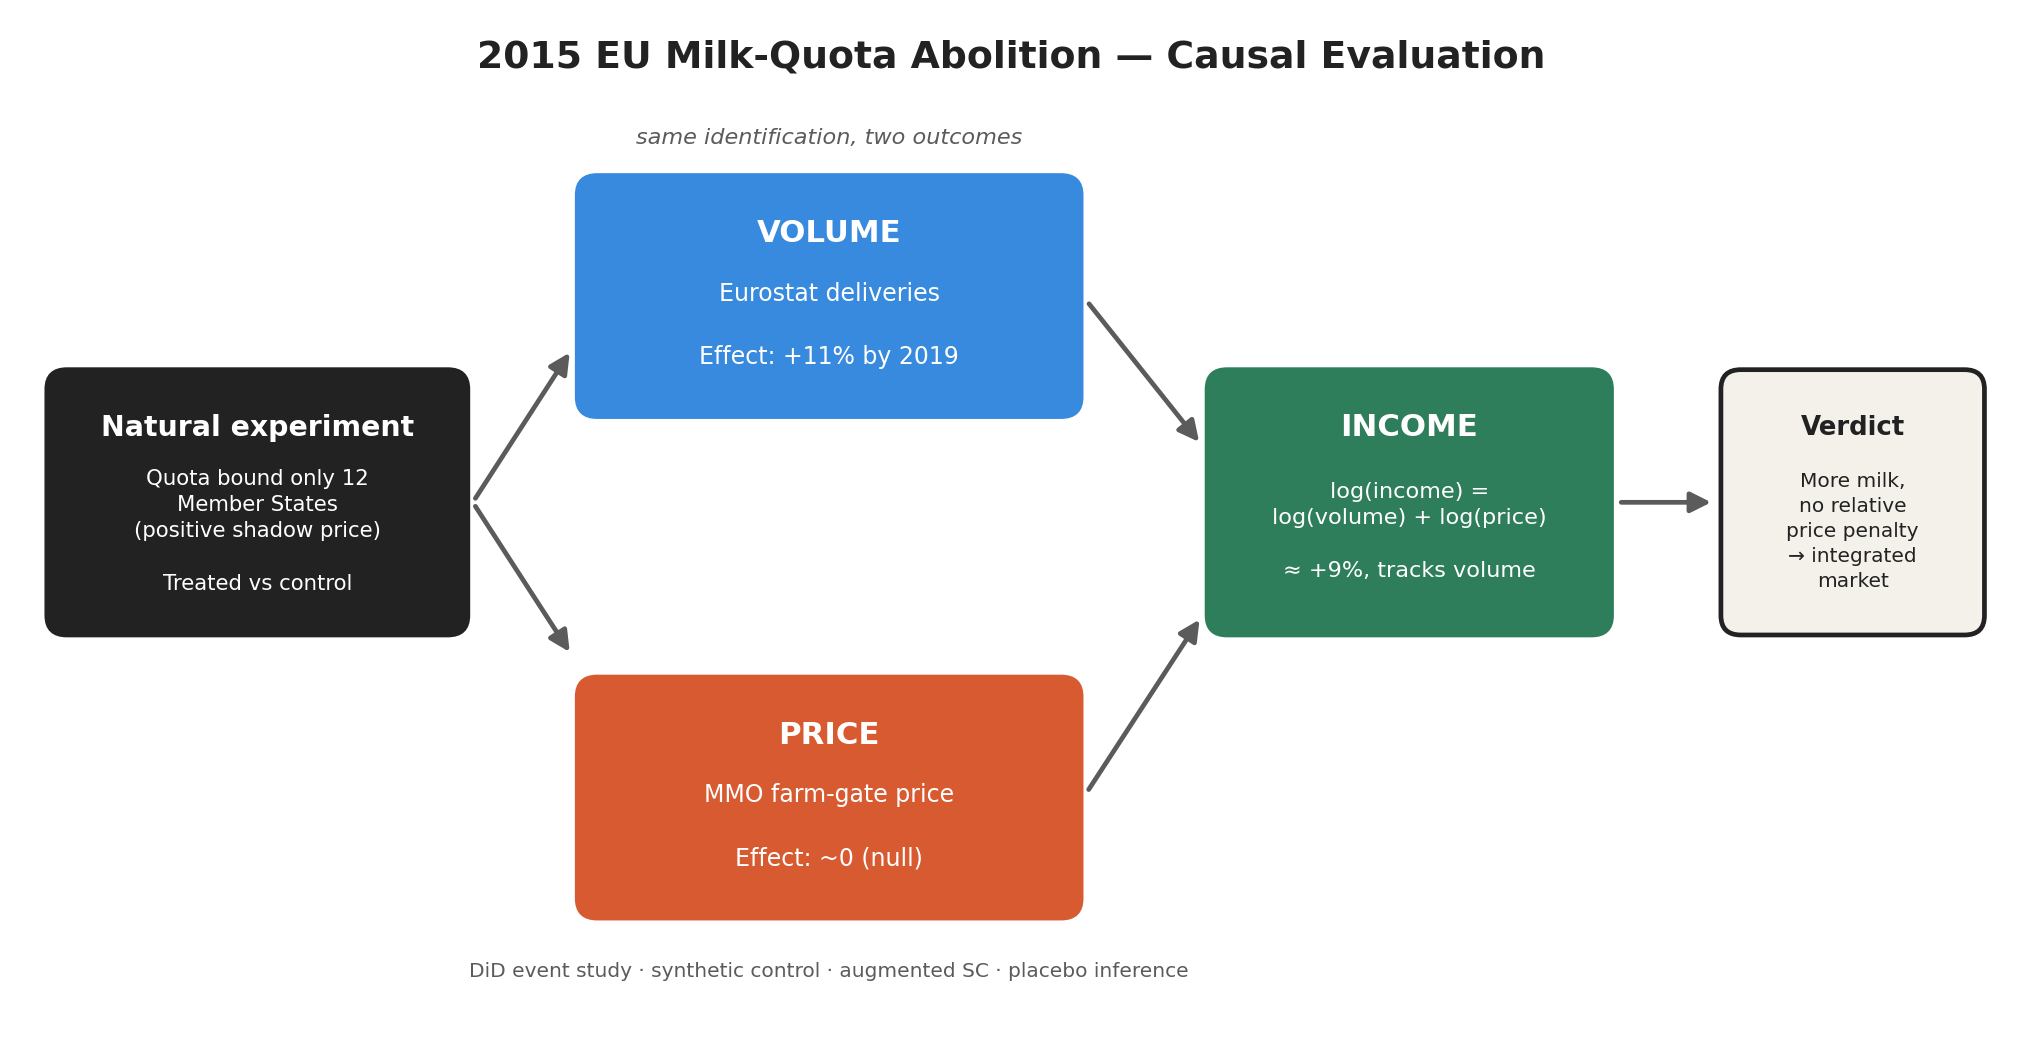
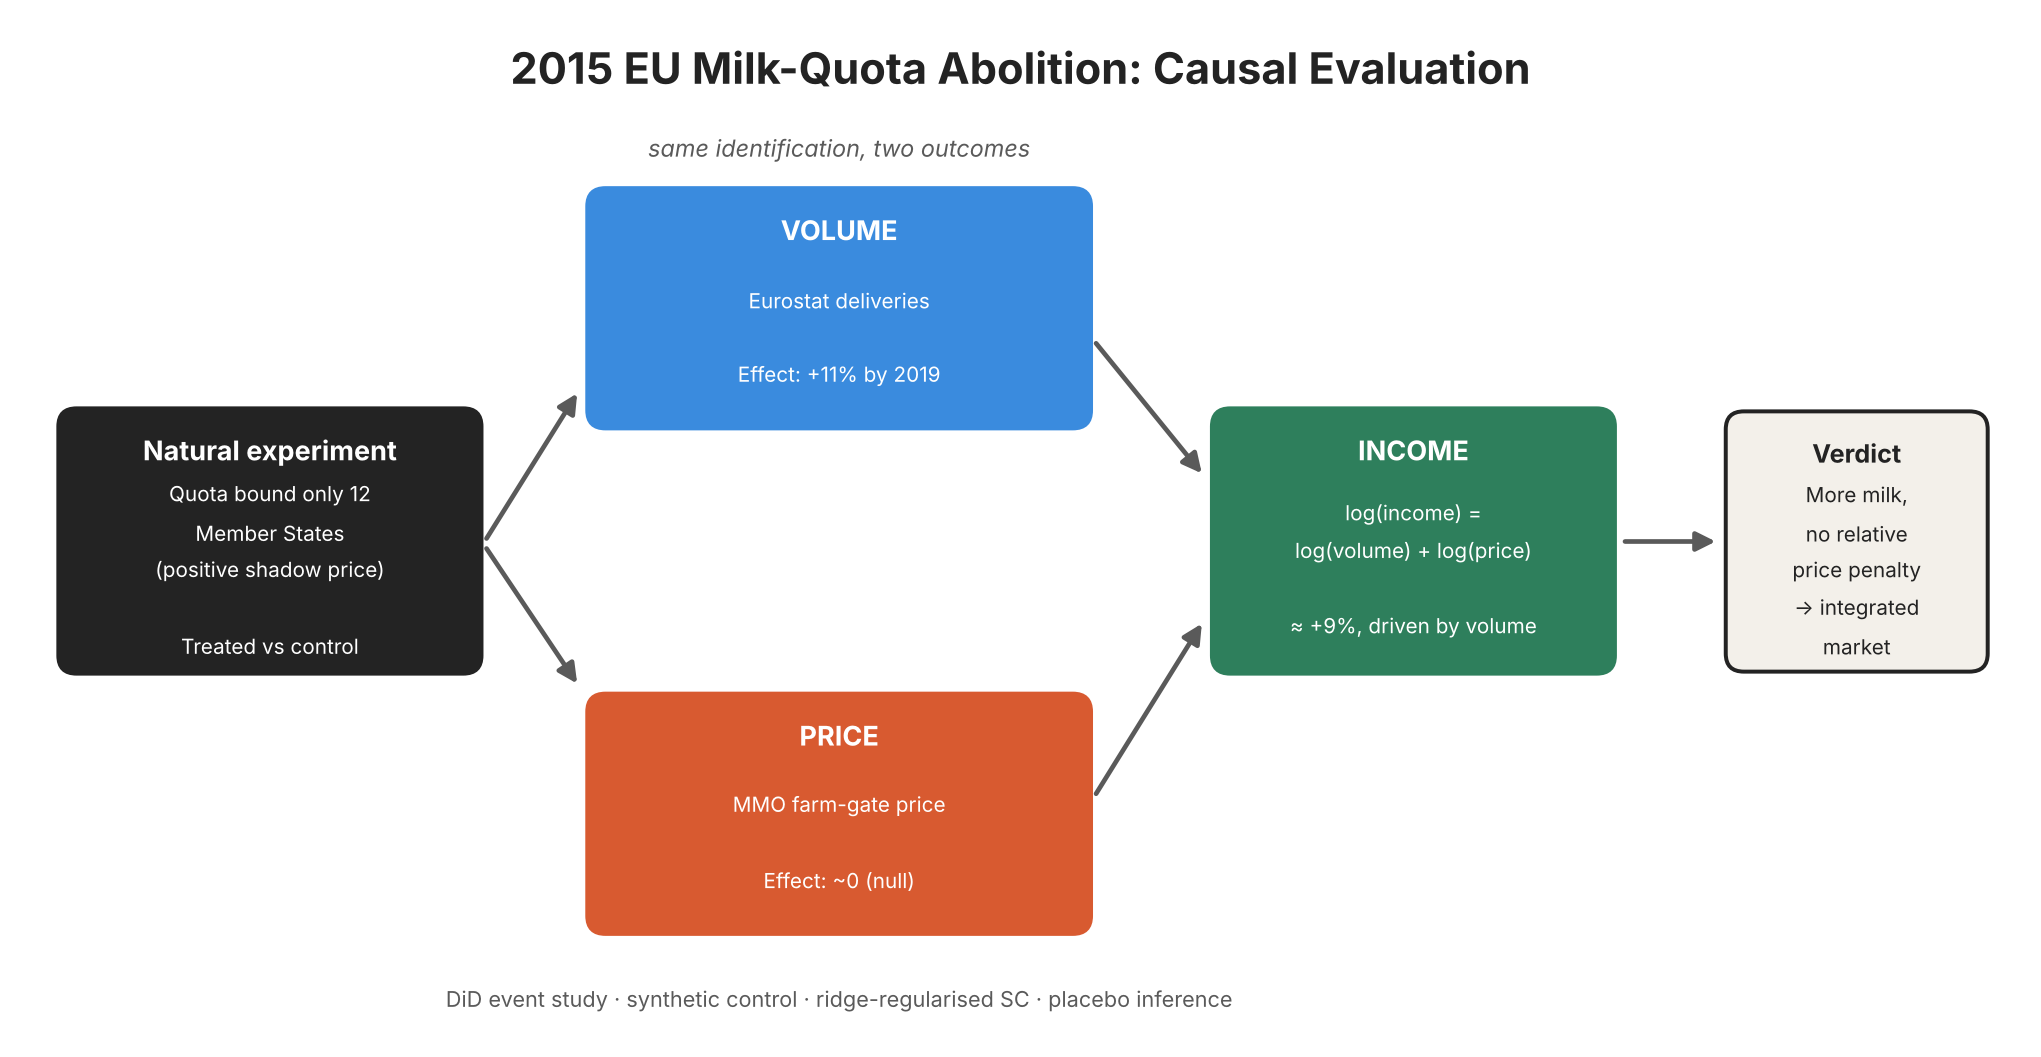
Regenerate the pipeline diagram and normalise notebook line endings
- assets/pipeline.png: redrawn by the new scripts/make_pipeline_diagram.py.
  The title no longer uses a long dash and the income box now shows the
  corrected figure (about +9%, driven by volume) instead of +11%.
- scripts/make_pipeline_diagram.py: the diagram is now generated from code,
  so its numbers can be updated after a re-run instead of edited by hand.
- 03_income.ipynb: the decomposition chart is saved to
  assets/income_decomposition.png, so the README image always matches the
  notebook output (the executed notebook and image follow in the next commit).
- .gitattributes: notebooks, scripts and text files are stored with LF line
  endings. The notebooks executed on Windows had CRLF endings, which made
  every re-run show up as a whole-file diff. Contents are unchanged.

Claude-Session: https://claude.ai/code/session_019nRT75UtVwLY1VhRQrrwaE

diff --git a/scripts/make_pipeline_diagram.py b/scripts/make_pipeline_diagram.py
@@ -1,0 +1,74 @@
+"""
+make_pipeline_diagram.py: draw assets/pipeline.png, the overview diagram in the README.
+
+The numbers in the boxes are the headline results of the notebooks; update them
+here if a re-run changes them. Run from the repository root:
+
+    python scripts/make_pipeline_diagram.py
+"""
+
+from pathlib import Path
+
+import matplotlib.pyplot as plt
+from matplotlib.patches import FancyArrowPatch, FancyBboxPatch
+
+OUT = Path(__file__).resolve().parents[1] / "assets" / "pipeline.png"
+
+DARK, BLUE, ORANGE, GREEN = "#232323", "#3A8BDE", "#D85A30", "#2E7F5C"
+CREAM, GREY = "#F3F0EA", "#5A5A5A"
+
+
+def box(ax, x, y, w, h, face, title, lines, text_color="white", edge=None, title_size=15):
+    ax.add_patch(FancyBboxPatch((x, y), w, h, boxstyle="round,pad=0,rounding_size=0.18",
+                                facecolor=face, edgecolor=edge or face, linewidth=2.2))
+    cx = x + w / 2
+    ax.text(cx, y + h - 0.42, title, ha="center", va="center", color=text_color,
+            fontsize=title_size, fontweight="bold")
+    ax.text(cx, y + (h - 0.6) / 2, "\n".join(lines), ha="center", va="center",
+            color=text_color, fontsize=11.5, linespacing=1.5)
+
+
+def arrow(ax, start, end):
+    ax.add_patch(FancyArrowPatch(start, end, arrowstyle="-|>", mutation_scale=22,
+                                 color=GREY, linewidth=2.6, shrinkA=0, shrinkB=0))
+
+
+def main() -> None:
+    fig, ax = plt.subplots(figsize=(20, 10.3))
+    ax.set_xlim(0, 20)
+    ax.set_ylim(0, 10.3)
+    ax.axis("off")
+
+    ax.text(10, 9.75, "2015 EU Milk-Quota Abolition: Causal Evaluation", ha="center", va="center",
+            fontsize=24, fontweight="bold", color=DARK)
+    ax.text(8.2, 8.95, "same identification, two outcomes", ha="center", va="center",
+            fontsize=13, style="italic", color=GREY)
+
+    box(ax, 0.45, 3.7, 4.2, 2.65, DARK, "Natural experiment",
+        ["Quota bound only 12", "Member States", "(positive shadow price)", "", "Treated vs control"])
+    box(ax, 5.7, 6.15, 5.0, 2.4, BLUE, "VOLUME",
+        ["Eurostat deliveries", "", "Effect: +11% by 2019"])
+    box(ax, 5.7, 1.1, 5.0, 2.4, ORANGE, "PRICE",
+        ["MMO farm-gate price", "", "Effect: ~0 (null)"])
+    box(ax, 11.9, 3.7, 4.0, 2.65, GREEN, "INCOME",
+        ["log(income) =", "log(volume) + log(price)", "", "≈ +9%, driven by volume"])
+    box(ax, 17.0, 3.72, 2.6, 2.6, CREAM, "Verdict",
+        ["More milk,", "no relative", "price penalty", "→ integrated", "market"],
+        text_color=DARK, edge=DARK, title_size=14)
+
+    arrow(ax, (4.7, 5.05), (5.6, 6.5))
+    arrow(ax, (4.7, 4.95), (5.6, 3.6))
+    arrow(ax, (10.75, 7.0), (11.8, 5.7))
+    arrow(ax, (10.75, 2.5), (11.8, 4.2))
+    arrow(ax, (16.0, 5.02), (16.9, 5.02))
+
+    ax.text(8.2, 0.45, "DiD event study · synthetic control · ridge-regularised SC · placebo inference",
+            ha="center", va="center", fontsize=12, color=GREY)
+
+    OUT.parent.mkdir(parents=True, exist_ok=True)
+    fig.savefig(OUT, dpi=130, bbox_inches="tight", facecolor="white")
+    print(f"Saved {OUT}")
+
+
+if __name__ == "__main__":
+    main()
